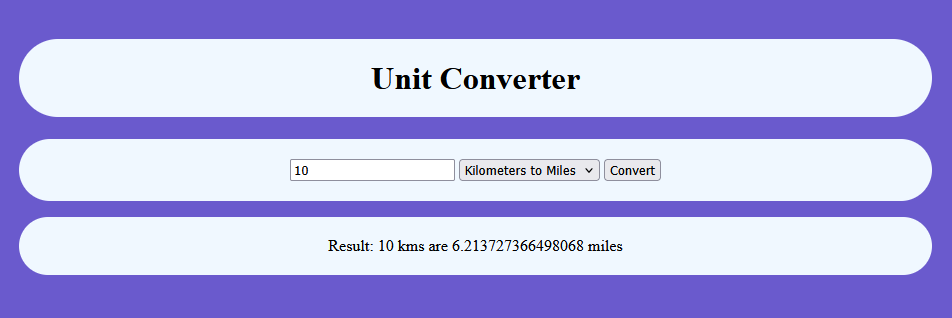
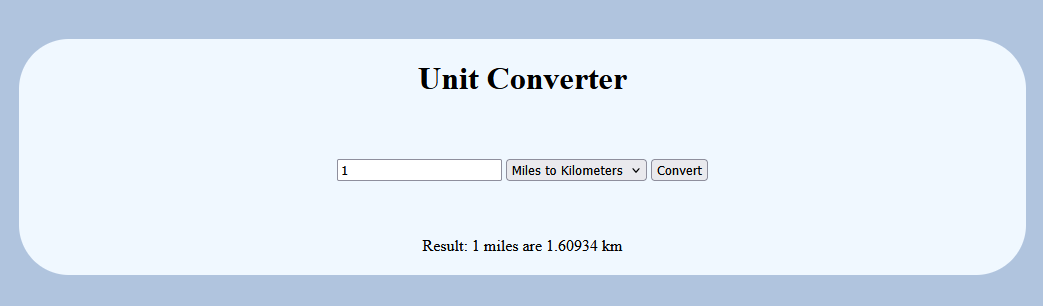
Updated style, and replaced demo image

diff --git a/index.html b/index.html
@@ -4,18 +4,20 @@
     <link rel="stylesheet" href="style.css">
   </head>
   <body>
-    <h1>Unit Converter</h1>
-    <div id="inputSelection">
-    <input id="userInput">
-    <select id="unit">
-      <option value="milesToKm"> Miles to Kilometers</option>
-      <option value="kmToMiles"> Kilometers to Miles</option>
-    </select>
-    <button  onclick="convert()">Convert</button>
+    <div>
+      <h1>Unit Converter</h1>
+      <div id="inputSelection">
+      <input id="userInput">
+      <select id="unit">
+        <option value="milesToKm"> Miles to Kilometers</option>
+        <option value="kmToMiles"> Kilometers to Miles</option>
+      </select>
+      <button  onclick="convert()">Convert</button>
+      </div>
+      <p>
+        Result: <span id="resultElement">0</span>
+      </p>
     </div>
-    <p>
-      Result: <span id="resultElement">0</span>
-    </p>
     <script src="script.js"></script>
   </body>
 </html>

diff --git a/style.css b/style.css
@@ -1,13 +1,17 @@
 #inputSelection {
-    background-color: aliceblue;
     color: black;
     padding: 20px;
-    border-radius: 50px;
+    border-radius: 0px;
     align-content: center;
   }
 
+  div {
+    background-color: aliceblue;
+    border-radius: 50px;
+  }
+
   body {
-    background-color: slateblue;
+    background-color: lightsteelblue;
     padding: 20px;
     color: black;
     align-content: center;
@@ -16,18 +20,14 @@
 
   h1 {
     padding: 20px;
-    background-color: aliceblue;
-    border-radius: 50px;
     color: black;
     align-content: center;
     text-align: center;
   }
 
   p {
-    background-color: aliceblue;
     color: black;
     padding: 20px;
-    border-radius: 50px;
     align-content: center;
     text-align: center;
   }
